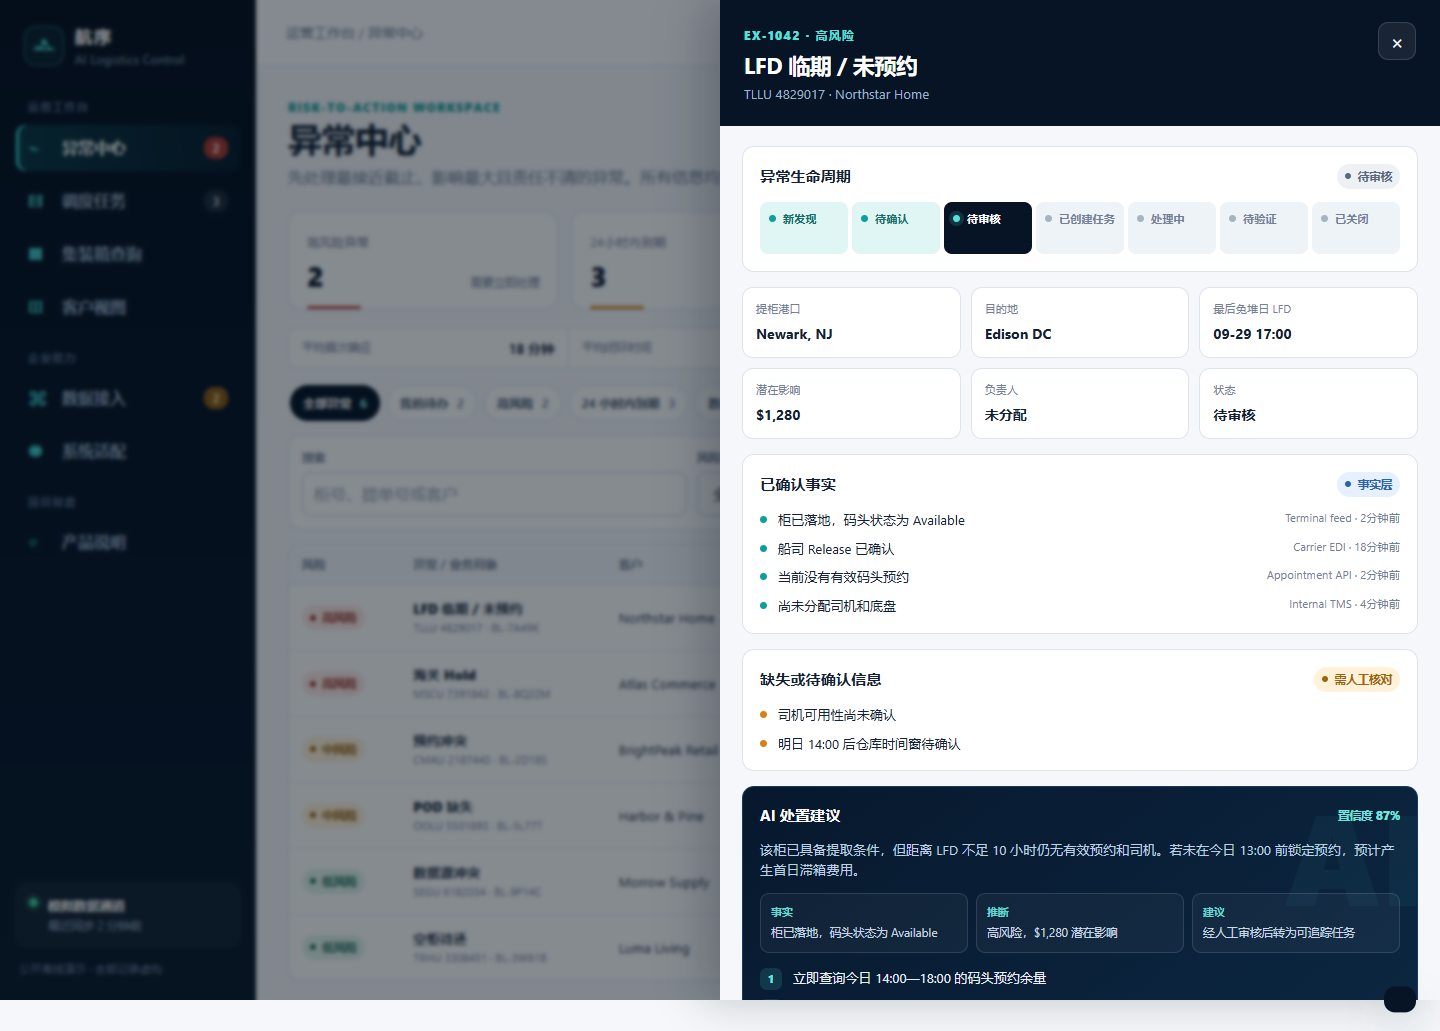
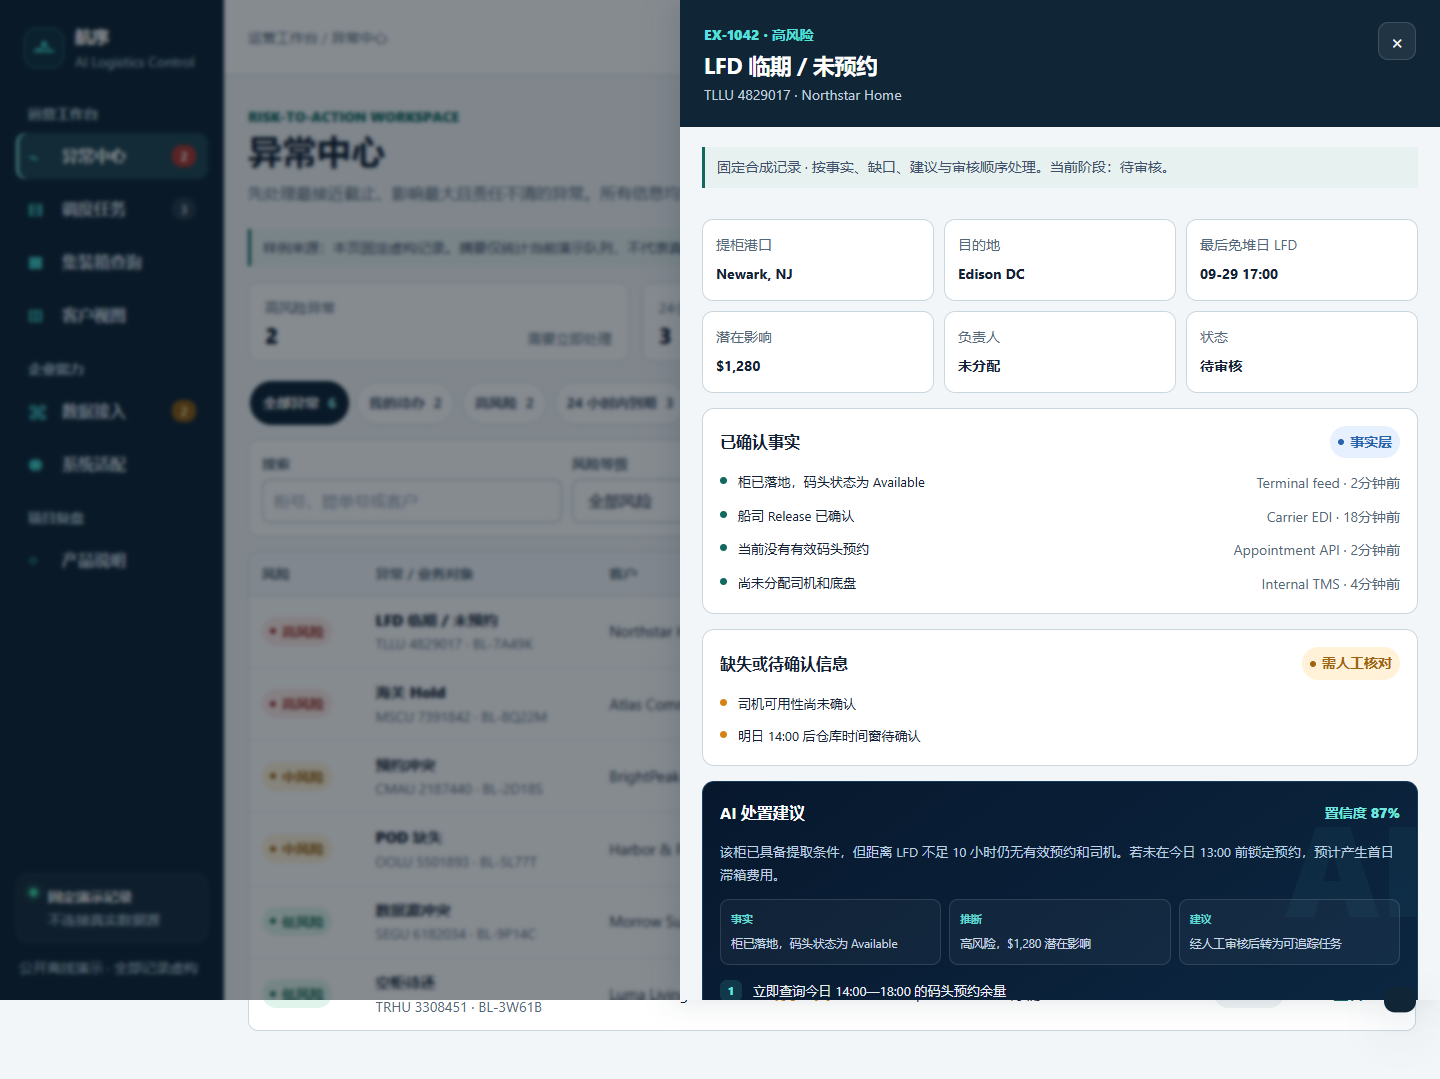
Redesign queue-first logistics workbench and keyboard review

diff --git a/dist/app.js b/dist/app.js
@@ -125,6 +125,9 @@ const detailSheet = document.getElementById("detailSheet");
 const sheetBackdrop = document.getElementById("sheetBackdrop");
 const modalBackdrop = document.getElementById("modalBackdrop");
 const editModal = document.getElementById("editModal");
+let detailReturnFocus = null;
+let editReturnFocus = null;
+const appShell = document.querySelector(".app-shell");
 
 function esc(value) {
   return String(value ?? "").replace(/[&<>'"]/g, ch => ({"&":"&amp;","<":"&lt;",">":"&gt;","'":"&#39;",'"':"&quot;"}[ch]));
@@ -196,17 +199,11 @@ function renderExceptions() {
       <div><span class="eyebrow">Risk-to-action workspace</span><h1>异常中心</h1><p class="page-subtitle">先处理最接近截止、影响最大且责任不清的异常。所有信息均为虚构脱敏数据。</p></div>
       <div class="page-actions"><button class="button secondary" id="savedView">保存当前视图</button><button class="button primary" id="focusHighRisk">聚焦高风险</button></div>
     </section>
-    <section class="metrics" aria-label="异常指标">
+    <p class="sample-note">样例来源：本页固定虚构记录。摘要仅统计当前演示队列，不代表真实运营绩效。</p>
+    <section class="metrics" aria-label="当前演示队列摘要">
       <article class="metric" style="--metric-color:var(--red)"><span class="metric-label">高风险异常</span><div class="metric-row"><strong class="metric-value" id="metricHigh">0</strong><span class="metric-note">需要立即处理</span></div></article>
       <article class="metric" style="--metric-color:var(--amber)"><span class="metric-label">24小时内到期</span><div class="metric-row"><strong class="metric-value" id="metricDue">0</strong><span class="metric-note">按截止时间排序</span></div></article>
       <article class="metric" style="--metric-color:var(--cyan)"><span class="metric-label">未分配负责人</span><div class="metric-row"><strong class="metric-value" id="metricUnassigned">0</strong><span class="metric-note">责任待明确</span></div></article>
-      <article class="metric" style="--metric-color:var(--green)"><span class="metric-label">本周已关闭</span><div class="metric-row"><strong class="metric-value">31</strong><span class="metric-note">证据完整后关闭</span></div></article>
-    </section>
-    <section class="ops-strip" aria-label="运营质量演示指标">
-      <div class="ops-stat"><span>平均首次响应</span><strong>18 分钟</strong></div>
-      <div class="ops-stat"><span>平均闭环时间</span><strong>3.4 小时</strong></div>
-      <div class="ops-stat"><span>AI 建议采纳率</span><strong>68%</strong></div>
-      <div class="ops-stat"><span>数据过期率</span><strong>4.8% <small class="demo-metric">演示指标</small></strong></div>
     </section>
     <section class="quick-view-bar" aria-label="快捷视图">
       <div class="quick-views">
@@ -295,13 +292,13 @@ function numericImpact(value) {
 function openDetail(id) {
   activeException = exceptions.find(item => item.id === id);
   if (!activeException || !role().canApprove) return;
+  if (detailSheet.getAttribute("aria-hidden") === "true") detailReturnFocus = document.activeElement;
   const item = activeException;
-  const currentStep = lifecycleIndex(item.status);
   const canApprove = LogisticsPolicy.canApprove(role(), item);
   detailSheet.innerHTML = `
     <header class="sheet-head"><div><span class="eyebrow">${esc(item.id)} · ${esc(item.riskLabel)}</span><h2>${esc(item.type)}</h2><p>${esc(item.container)} · ${esc(item.customer)}</p></div><button class="icon-button" data-close-sheet aria-label="关闭详情">×</button></header>
     <div class="sheet-body">
-      <section class="section-card"><div class="section-title"><h3>异常生命周期</h3><span class="tag neutral">${esc(item.status)}</span></div><div class="lifecycle">${lifecycleSteps.map((step,index) => `<div class="lifecycle-step ${index < currentStep ? "done" : index === currentStep ? "current" : ""}">${esc(step)}</div>`).join("")}</div></section>
+      <p class="sample-note">固定合成记录 · 按事实、缺口、建议与审核顺序处理。当前阶段：${esc(item.status)}。</p>
       <section class="detail-grid">
         <div class="detail-stat"><span>提柜港口</span><strong>${esc(item.port)}</strong></div>
         <div class="detail-stat"><span>目的地</span><strong>${esc(item.destination)}</strong></div>
@@ -323,17 +320,25 @@ function openDetail(id) {
   detailSheet.querySelector("[data-reject]").addEventListener("click", () => rejectSuggestion(item));
   sheetBackdrop.hidden = false;
   detailSheet.setAttribute("aria-hidden", "false");
-  requestAnimationFrame(() => detailSheet.classList.add("open"));
+  detailSheet.inert = false;
+  appShell.inert = true;
+  requestAnimationFrame(() => { detailSheet.classList.add("open"); detailSheet.querySelector("[data-close-sheet]").focus(); });
 }
 
 function closeDetail() {
+  const wasOpen = detailSheet.getAttribute("aria-hidden") === "false";
   detailSheet.classList.remove("open");
   detailSheet.setAttribute("aria-hidden", "true");
-  setTimeout(() => { sheetBackdrop.hidden = true; }, 220);
+  detailSheet.inert = true;
+  sheetBackdrop.hidden = true;
+  appShell.inert = false;
+  if (wasOpen && detailReturnFocus?.isConnected) detailReturnFocus.focus();
 }
 
 function openEditModal() {
   if (!activeException) return;
+  editReturnFocus = document.activeElement;
+  detailSheet.inert = true;
   document.getElementById("suggestionText").value = activeException.recommendations.join("\n");
   editModal.hidden = false;
   modalBackdrop.hidden = false;
@@ -341,8 +346,11 @@ function openEditModal() {
 }
 
 function closeEditModal() {
+  const wasOpen = !editModal.hidden;
   editModal.hidden = true;
   modalBackdrop.hidden = true;
+  if (detailSheet.getAttribute("aria-hidden") === "false") detailSheet.inert = false;
+  if (wasOpen && editReturnFocus?.isConnected) editReturnFocus.focus();
 }
 
 function createTaskFromSuggestion(item, suggestion, owner) {
@@ -374,6 +382,7 @@ function renderTasks() {
   root.innerHTML = `
     <section class="page-head"><div><span class="eyebrow">Execution workspace</span><h1>调度任务</h1><p class="page-subtitle">AI 建议只有在进入责任明确的任务、获得执行结果并回写状态后，才产生业务价值。</p></div><div class="page-actions"><button class="button secondary" id="taskFilter">只看高风险</button><button class="button primary" id="newTask">新建任务</button></div></section>
     ${role().canExecute ? `<div class="permission-note">当前角色：${esc(role().label)}。你可以推进任务、提交完成证据并验证回写。</div>` : `<div class="permission-note">当前角色：${esc(role().label)}。任务状态仅供查看；切换为调度人员或运营经理后可执行。</div>`}
+    <p class="sample-note">固定合成任务。证据提交与回写只推进演示状态，不上传或核验真实文件。每列是当前阶段，按钮标明下一动作。</p>
     <section class="task-board">${columns.map(([key,label]) => `<div class="task-column"><div class="task-column-head"><h3>${label}</h3><span>${tasks.filter(t => t.status === key).length} 项</span></div><div>${renderTaskCards(key)}</div></div>`).join("")}</section>`;
   root.querySelectorAll("[data-advance]").forEach(button => button.addEventListener("click", () => advanceTask(button.dataset.advance)));
   document.getElementById("taskFilter").addEventListener("click", () => showToast("高风险任务共 " + tasks.filter(t => t.priority === "high").length + " 项"));
@@ -529,7 +538,7 @@ document.getElementById("saveSuggestion").addEventListener("click", () => {
   if (!suggestion) { showToast("请填写处置方案"); return; }
   createTaskFromSuggestion(activeException, suggestion, owner);
 });
-document.getElementById("refreshButton").addEventListener("click", () => showToast("模拟数据已刷新，最近同步时间已更新"));
+document.getElementById("refreshButton").addEventListener("click", () => showToast("当前为固定演示记录，未请求外部数据"));
 document.getElementById("roleSelect").addEventListener("change", event => {
   closeDetail(); closeEditModal();
   currentRole = event.target.value;
@@ -547,7 +556,19 @@ document.getElementById("densityButton").addEventListener("click", event => {
   event.currentTarget.textContent = tableDensity === "compact" ? "舒适视图" : "紧凑视图";
   showToast(tableDensity === "compact" ? "已切换为紧凑视图" : "已切换为舒适视图");
 });
-document.addEventListener("keydown", event => { if (event.key === "Escape") { closeEditModal(); closeDetail(); } });
+document.addEventListener("keydown", event => {
+  if (event.key === "Escape") {
+    if (!editModal.hidden) closeEditModal();
+    else closeDetail();
+  }
+  if (event.key !== "Tab") return;
+  const panel = !editModal.hidden ? editModal : detailSheet.getAttribute("aria-hidden") === "false" ? detailSheet : null;
+  if (!panel) return;
+  const controls = [...panel.querySelectorAll('button:not(:disabled), input, select, textarea, a[href]')].filter(el => el.getClientRects().length);
+  const first = controls[0], last = controls.at(-1);
+  if (event.shiftKey && document.activeElement === first) { event.preventDefault(); last.focus(); }
+  else if (!event.shiftKey && document.activeElement === last) { event.preventDefault(); first.focus(); }
+});
 
 function registerWebMCP() {
   const context = document.modelContext;

diff --git a/dist/styles.css b/dist/styles.css
@@ -6,13 +6,13 @@
   --navy-800: #10243d;
   --ink-900: #142033;
   --ink-700: #40506a;
-  --ink-500: #718097;
+  --ink-500: #526879;
   --line: #dce4ed;
   --line-strong: #c8d3df;
   --surface: #ffffff;
   --surface-2: #f5f7fa;
   --surface-3: #eef3f7;
-  --cyan: #0d9f9a;
+  --cyan: #12685f;
   --cyan-soft: #dff6f4;
   --amber: #d68316;
   --amber-soft: #fff2d8;
@@ -23,8 +23,8 @@
   --blue: #3676d1;
   --blue-soft: #e7f0ff;
   --shadow: 0 18px 44px rgba(15, 35, 58, .13);
-  --sidebar-width: 256px;
-  --radius: 14px;
+  --sidebar-width: 224px;
+  --radius: 10px;
   font-family: Inter, "Segoe UI", "PingFang SC", "Microsoft YaHei", sans-serif;
 }
 
@@ -33,7 +33,7 @@ html { min-width: 320px; background: var(--surface-2); }
 body { margin: 0; color: var(--ink-900); background: var(--surface-2); font-size: 16px; line-height: 1.5; }
 button, input, select, textarea { font: inherit; }
 button { cursor: pointer; }
-button:focus-visible, input:focus-visible, select:focus-visible, textarea:focus-visible, [tabindex]:focus-visible { outline: 3px solid rgba(13,159,154,.28); outline-offset: 2px; }
+button:focus-visible, input:focus-visible, select:focus-visible, textarea:focus-visible, [tabindex]:focus-visible { outline: 3px solid #12685f; outline-offset: 3px; }
 .skip-link { position: fixed; left: 1rem; top: -4rem; z-index: 200; padding: .7rem 1rem; background: white; color: var(--ink-900); border-radius: 8px; }
 .skip-link:focus { top: 1rem; }
 
@@ -100,7 +100,7 @@ h3 { margin-bottom: 7px; font-size: .95rem; }
 .button.small { min-height: 34px; padding: 0 11px; font-size: .82rem; }
 .button:disabled { cursor: not-allowed; opacity: .45; }
 
-.metrics { display: grid; grid-template-columns: repeat(4, minmax(0, 1fr)); gap: 13px; margin-bottom: 17px; }
+.metrics { display: grid; grid-template-columns: repeat(3, minmax(0, 1fr)); gap: 13px; margin-bottom: 17px; }
 .metric { background: var(--surface); border: 1px solid var(--line); border-radius: var(--radius); padding: 17px 18px; position: relative; overflow: hidden; }
 .metric::after { content: ""; position: absolute; width: 54px; height: 3px; border-radius: 2px; background: var(--metric-color, var(--cyan)); left: 18px; bottom: 0; }
 .metric-label { color: var(--ink-500); font-size: .78rem; }
@@ -390,4 +390,80 @@ tbody tr:last-child td { border-bottom: 0; }
 
 @media (prefers-reduced-motion: reduce) {
   *, *::before, *::after { scroll-behavior: auto !important; transition-duration: .01ms !important; animation-duration: .01ms !important; }
+}
+
+/* Public workbench: queue first, restrained surfaces, readable labels. */
+:root { --navy-950: #102536; --navy-900: #102536; --surface-2: #f3f6f8; --line: #cbd7df; --line-strong: #a8bac6; }
+.sidebar { background: #102536; }
+.brand strong, .brand span, .nav-section-label, .eyebrow, h1, th, .environment-badge { letter-spacing: normal; }
+.brand span, .nav-section-label, .system-state span, .demo-label { color: #b5c9d8; }
+.nav-item { color: #d0dce5; }
+.nav-item.active { background: #214653; box-shadow: inset 3px 0 #7dd9cc; }
+.topbar { height: auto; min-height: 76px; padding: 14px 24px; flex-wrap: wrap; gap: 12px; background: white; backdrop-filter: none; }
+.top-actions { flex-wrap: wrap; gap: 10px; }
+.view-root { padding: 28px 24px 48px; }
+h1 { line-height: 1.3; }
+h3 { font-size: 1rem; }
+.page-subtitle { line-height: 1.75; }
+.sample-note { border-left: 3px solid var(--cyan); padding: 8px 12px; font-size: .875rem; color: var(--ink-700); background: #e7f2f0; margin-bottom: 16px; }
+.metric { padding: 12px 16px; box-shadow: none; }
+.metric-row { margin-top: 5px; }
+.metric-value { font-size: 1.4rem; }
+.metric::after { display: none; }
+.metric-note { max-width: 12em; }
+.button.primary { background: #12685f; }
+.button.primary:hover { background: #0b5149; }
+.button, .quick-chip, .row-action, input, select { min-height: 44px; }
+.filters { grid-template-columns: minmax(180px, 1.5fr) repeat(4, minmax(110px, 1fr)); }
+.brand span, .nav-section-label, .system-state strong, .system-state span, .demo-label,
+.breadcrumb, .environment-badge, .density-control, .role-switch > span, .role-switch select,
+.operator strong, .operator span, .eyebrow, .metric-label, .metric-note, .ops-stat span,
+.demo-metric, .quick-chip, .view-tools, .field label, th, .sub-cell, .tag, .freshness,
+.sheet-head p, .detail-stat span, .fact-source, .confidence, .ai-evidence, .audit-note,
+.audit-row, .timeline-item p, .task-card p, .task-meta, .task-column-head,
+.architecture-node span, .architecture-node strong, .architecture-node p,
+.mode-card span, .summary-card span, .reset-zone p, .health-line { font-size: .875rem; }
+td { font-size: .9375rem; }
+.role-switch select { width: 132px; }
+.detail-sheet { width: min(760px, 100vw); box-shadow: -8px 0 30px #10253622; }
+.detail-sheet[aria-hidden="true"] { display: none; }
+.sheet-head { position: static; }
+.sheet-head p { color: #c0d2df; }
+.sheet-body { line-height: 1.75; }
+.fact-list li, .missing-list li, .section-title, .task-card { overflow-wrap: anywhere; }
+.ai-actions { flex-wrap: wrap; }
+.view-tools { flex-wrap: wrap; white-space: normal; }
+.modal { max-height: 90dvh; overflow: auto; }
+.task-board { align-items: start; }
+.task-board { grid-template-columns: repeat(3, minmax(0,1fr)); overflow: visible; }
+.task-column-head { line-height: 1.6; }
+@media (max-width: 1200px) {
+  .task-board { grid-template-columns: repeat(2, minmax(0,1fr)); }
+  .filters { grid-template-columns: repeat(2, minmax(0,1fr)); }
+  .operator { display: none; }
+}
+@media (max-width: 760px) {
+  .task-board { grid-template-columns: 1fr; }
+  .sidebar { position: static; height: auto; padding: 8px; }
+  .nav-list { grid-auto-columns: minmax(104px, auto); }
+  .nav-item { font-size: .875rem; min-height: 64px; }
+  .nav-count { display: none; }
+  .topbar { position: static; padding: 12px 16px; }
+  .top-actions { gap: 8px; }
+  .mobile-brand span { display: none; }
+  .density-control { display: none; }
+  .role-switch > span { display: inline; font-size: .875rem; }
+  .role-switch select { width: 132px; }
+  .view-root { padding: 22px 16px 40px; }
+  .metrics { grid-template-columns: 1fr; gap: 8px; }
+  .metric-row { margin: 0; }
+  .metric { display: flex; justify-content: space-between; align-items: center; gap: 12px; }
+  .metric-note { display: none; }
+  .filters, .detail-grid { grid-template-columns: 1fr; }
+  .fact-list li, .missing-list li, .section-title { flex-wrap: wrap; }
+  td { flex-wrap: wrap; }
+  td::before { font-size: .875rem; }
+  .lifecycle { flex-wrap: wrap; }
+  .sheet-head h2 { font-size: 1.25rem; }
+  .toast { bottom: 16px; }
 }

diff --git a/dist/index.html b/dist/index.html
@@ -54,7 +54,7 @@
       <div class="sidebar-foot">
         <div class="system-state">
           <span class="pulse-dot"></span>
-          <div><strong>模拟数据通道</strong><span>最近同步 2 分钟前</span></div>
+          <div><strong>固定演示记录</strong><span>不连接真实数据源</span></div>
         </div>
         <div class="demo-label">公开离线演示 · 全部记录虚构</div>
       </div>
@@ -65,7 +65,7 @@
         <div class="mobile-brand"><strong>航序</strong><span>AI Logistics</span></div>
         <div class="breadcrumb" id="breadcrumb">运营工作台 / 异常中心</div>
         <div class="top-actions">
-          <span class="environment-badge"><i></i>DEMO · V3</span>
+          <span class="environment-badge"><i></i>离线演示 · v1.1</span>
           <button class="density-control" id="densityButton" type="button" aria-pressed="false">紧凑视图</button>
           <button class="icon-button" id="refreshButton" title="刷新模拟数据" aria-label="刷新模拟数据">↻</button>
           <label class="role-switch"><span>当前角色</span><select id="roleSelect">
@@ -87,7 +87,7 @@
   </div>
 
   <div class="sheet-backdrop" id="sheetBackdrop" hidden></div>
-  <aside class="detail-sheet" id="detailSheet" aria-label="异常详情" aria-hidden="true"></aside>
+  <aside class="detail-sheet" id="detailSheet" role="dialog" aria-modal="true" aria-label="异常详情" aria-hidden="true" inert></aside>
 
   <div class="modal-backdrop" id="modalBackdrop" hidden></div>
   <section class="modal" id="editModal" role="dialog" aria-modal="true" aria-labelledby="editModalTitle" hidden>

diff --git a/docs/UI_QA.md b/docs/UI_QA.md
@@ -1,0 +1,19 @@
+# v1.1 界面验证
+
+日期：2026-10-15。使用独立无登录资料的 Chromium 浏览器，固定合成数据；只测试浅色内容与深色导航这一支持的主题。不宣称完整 WCAG 合规。
+
+| 检查 | 结果 | 范围 |
+| --- | --- | --- |
+| 320、375、768、1440 CSS px | pass | 初始队列无页面横向溢出；导航和快捷筛选可局部滚动 |
+| 200% 文字放大 | pass | 375px，根字号加倍，保留控件与内容 |
+| 文字间距覆盖 | pass | 375px，行高1.5、字距.12em、词距.16em、段距2em |
+| 键盘操作 | pass | 跳转链接、详情焦点范围、编辑窗口、逐层 Escape、焦点返回 |
+| 减少动态效果 | pass | reduced-motion 环境运行，动画与过渡关闭 |
+| 审核和任务关闭 | pass | EX-1042 创建、执行、证据模拟、验证回写与关闭 |
+| 重复创建与无权限操作 | pass | 任务数不增加，客户视角保持详情关闭 |
+| 过期证据 | pass | EX-1039 直接采纳禁用 |
+| 手机详情 | pass | 320px 单列字段，无页面横向溢出 |
+| 浏览器脚本错误 | pass | 上述流程没有 pageerror |
+| Safari、真实业务及独立证据核验 | not tested | 本轮不包含，按钮仍仅改变演示状态 |
+
+桌面截图与手机截图来自上述稳定状态，没有真实客户数据。审查依据见 [UI_AUDIT.md](UI_AUDIT.md)。

diff --git a/docs/UI_AUDIT.md b/docs/UI_AUDIT.md
@@ -1,0 +1,13 @@
+# 工作台界面审查
+
+本次面向物流操作和调度人员，优先支持异常审核与任务闭环。证据来自修改前的 HTML、CSS 和交互源码；浏览器验证另见 UI_QA.md。
+
+| 优先级 | 层级 | 问题与证据 | 置信度 | 修改与验收 |
+| --- | --- | --- | --- | --- |
+| P1 | Required | 详情隐藏后仍保留可聚焦控件；编辑窗口没有 Tab 范围管理，Escape 同时关闭两层 | 高 | inert、焦点范围、逐层关闭与返回；键盘验证 |
+| P1 | Contextual | 首屏四张指标卡和四项运营指标挤占异常队列；其中本周关闭数不来自当前队列 | 高 | 只保留队列内计算的三项摘要，集中标明固定样例 |
+| P2 | Contextual | 多个标签字号为 .66–.76rem，导航与次级文字对比偏弱 | 高 | 统一至少 .8125rem 标签、加强对比；实际计算样式检查 |
+| P2 | Contextual | 手机详情仍为两列字段；固定底栏高度无法容纳文字放大 | 高 | 单列详情、可自然增高的导航；320–1440px 与文字放大验证 |
+| P3 | Preference | 统一浅色内容、深色导航和青绿强调 | 高 | 遵循已确认视觉方向，不作为标准违规 |
+
+保留五类角色、原策略、模拟数据及任务状态；不连接真实系统。

diff --git a/README.en.md b/README.en.md
@@ -21,6 +21,8 @@ python -m http.server 4181 --bind 127.0.0.1 --directory dist
 
 Open <http://127.0.0.1:4181>. Run the dependency-free Node.js 22+ checks with:
 
+Version 1.1 prioritizes the exception queue and presents facts, missing information and recommendations in review order. Dialogs support Tab, Shift+Tab, layered Escape and focus return. This remains a local-only demo. See [UI audit](docs/UI_AUDIT.md) and [UI QA](docs/UI_QA.md) (Chinese).
+
 ```powershell
 node --test tests/policy.test.cjs
 node --check dist/app.js

diff --git a/README.md b/README.md
@@ -21,6 +21,10 @@ python -m http.server 4181 --bind 127.0.0.1 --directory dist
 
 然后打开 <http://127.0.0.1:4181>。
 
+v1.1 将异常队列作为主区域，详情按事实、缺口和建议展开。编辑窗口支持 Tab、Shift+Tab 与 Escape，关闭后返回触发控件。仅提供本地运行，不新增在线托管。
+
+[界面审查](docs/UI_AUDIT.md) · [本轮界面验证](docs/UI_QA.md)
+
 运行 Node.js 22+ 的无依赖策略测试：
 
 ```powershell

diff --git a/CHANGELOG.md b/CHANGELOG.md
@@ -1,5 +1,11 @@
 # Changelog
 
+## v1.1 — 2026-10-15
+
+- Redesigned the queue-first workbench with readable light surfaces and dark navigation.
+- Added dialog keyboard focus containment, layered Escape handling and focus return.
+- Kept synthetic fixtures, five roles and policy checks unchanged; no hosting or integrations added.
+
 ## v1.0 — 2026-10-14
 
 - Released an independently runnable public logistics-workbench package.
